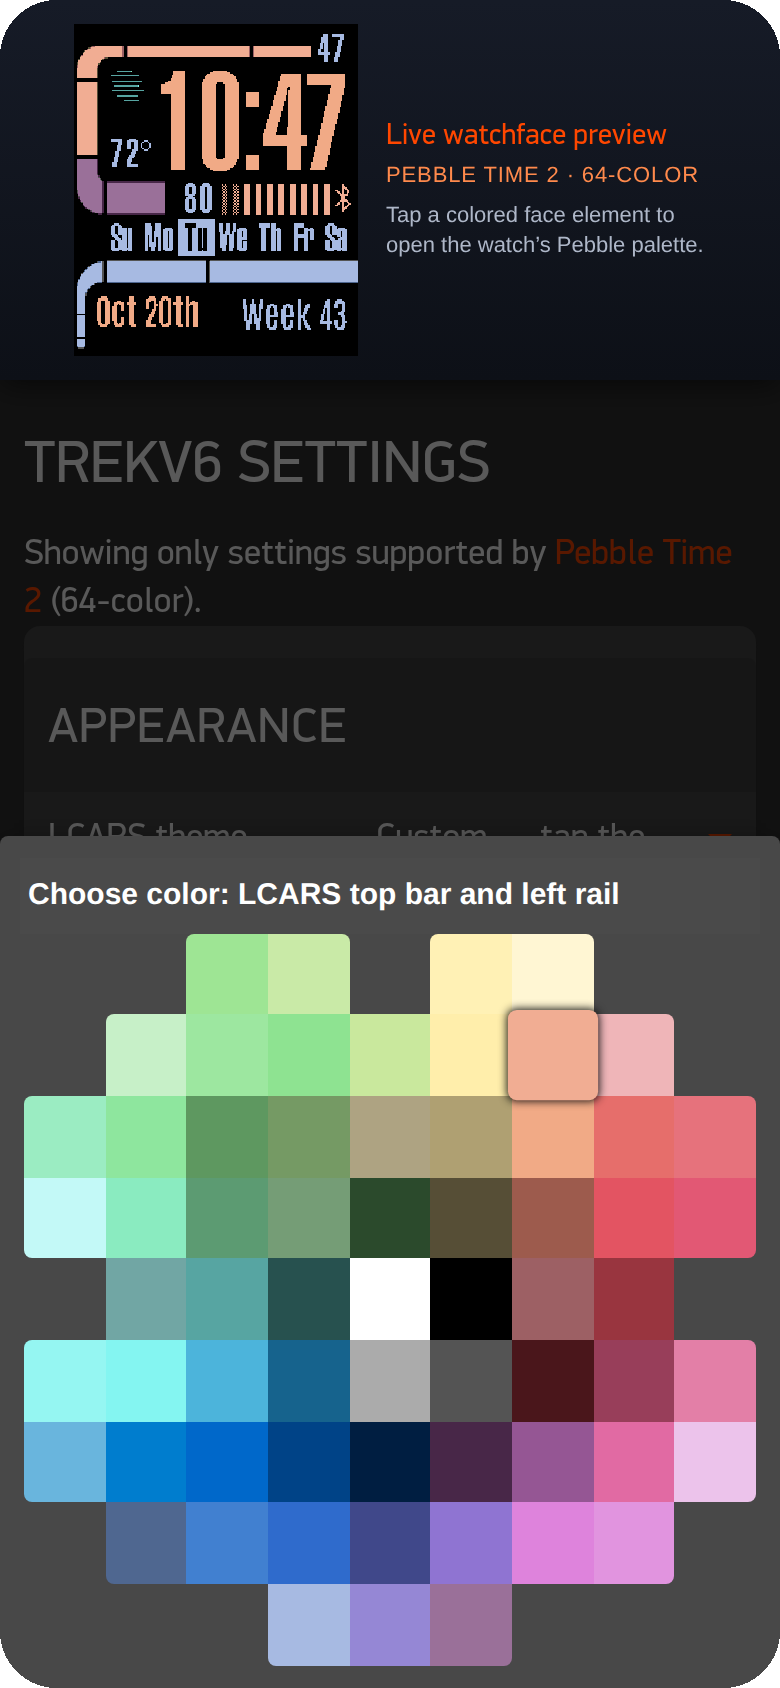
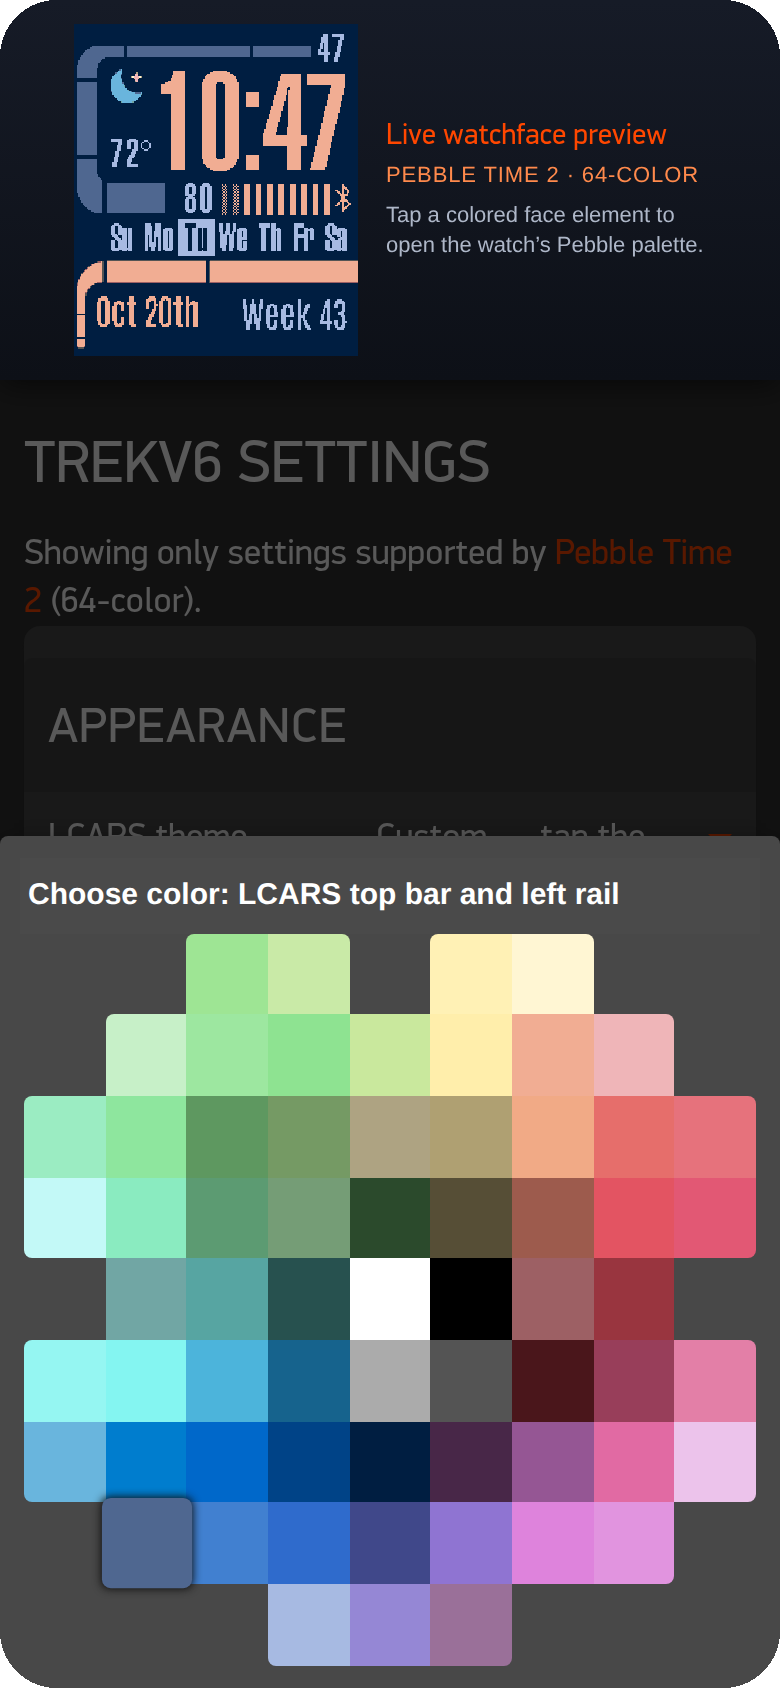
README: six distinct palettes in the screenshots
Replace the four one-hue palettes with six that differ in structure:
Gamma Shift (graphite with one orange accent), Ten Forward (navy
background), Risa (light), Chateau (wine and cream), Tricorder (no
frame) and Romulan. Settings screenshots now show Ten Forward, and the
disconnect alert shows Gamma Shift.

Changed region(s): [[0.0923, 0.0, 0.4615, 0.2156], [0.6462, 0.5853, 0.8, 0.6777], [0.1231, 0.8626, 0.2769, 0.955]]

diff --git a/README.md b/README.md
@@ -4,7 +4,7 @@
 
 **An LCARS watchface for Pebble, drawn live in code.**
 
-<img src="docs/images/faces.png" alt="Trekv6 on Pebble Time 2 in the Enterprise-D, Discovery, Red Alert and Borg palettes" width="100%">
+<img src="docs/images/faces.png" alt="Trekv6 on Pebble Time 2 in six palettes: Gamma Shift, Ten Forward, Risa, Château, Tricorder and Romulan" width="100%">
 
 [**Download**](https://github.com/nbetcher/pebbleface-trekv4/releases/latest) &nbsp;·&nbsp;
 [What's new](.github/release-notes/v6.0.0.md) &nbsp;·&nbsp;
@@ -47,16 +47,18 @@ the watch **pixel for pixel**. Other watches get a close vector preview.
 
 ## Palettes to try
 
-The faces above are custom palettes. Choose **Custom** in Settings and tap your way to:
+Every face above is a custom palette. Choose **Custom** in Settings and tap your way to:
 
-| Palette          | Frame: top · middle · bottom        | Text · secondary text |
-| ---------------- | ----------------------------------- | --------------------- |
-| **Enterprise-D** | Peach · orchid · lavender           | Orange · lavender     |
-| **Discovery**    | Sky blue · Starfleet blue · azure   | Ice blue · sky blue   |
-| **Red Alert**    | Red · crimson · coral               | White · rose          |
-| **Borg**         | Green · dark green · bright green   | Bright green · green  |
+| Palette         | Frame: top · middle · bottom   | Text · secondary  | Background |
+| --------------- | ------------------------------ | ----------------- | ---------- |
+| **Gamma Shift** | Graphite · graphite · orange   | White · silver    | Black      |
+| **Ten Forward** | Slate · slate · apricot        | Apricot · lavender | Navy      |
+| **Risa**        | Orange · silver · cobalt       | Black · cobalt    | White      |
+| **Château**     | Wine · ochre · cream           | Cream · dusty rose | Black     |
+| **Tricorder**   | Black (no frame)               | Amber · amber     | Black      |
+| **Romulan**     | Teal · jade · olive            | Mint · sea green  | Black      |
 
-<p align="center"><img src="docs/images/disconnect.png" alt="The LCARS Bluetooth-disconnected popup in the Red Alert palette" width="240"><br><sub>The disconnect alert, in Red Alert</sub></p>
+<p align="center"><img src="docs/images/disconnect.png" alt="The LCARS Bluetooth-disconnected popup in the Gamma Shift palette" width="240"><br><sub>The disconnect alert, in Gamma Shift</sub></p>
 
 ## Install
 

diff --git a/.github/release-notes/v6.0.0.md b/.github/release-notes/v6.0.0.md
@@ -1,4 +1,4 @@
-![Trekv6 in four palettes](https://raw.githubusercontent.com/nbetcher/pebbleface-trekv4/v6.0.0/docs/images/faces.png)
+![Trekv6 in six palettes](https://raw.githubusercontent.com/nbetcher/pebbleface-trekv4/v6.0.0/docs/images/faces.png)
 
 **Trekv4 is now Trekv6: a ground-up rebuild.** The LCARS frame is drawn live by the
 watch instead of shipped as pictures. That lets you build your own palette, gives
